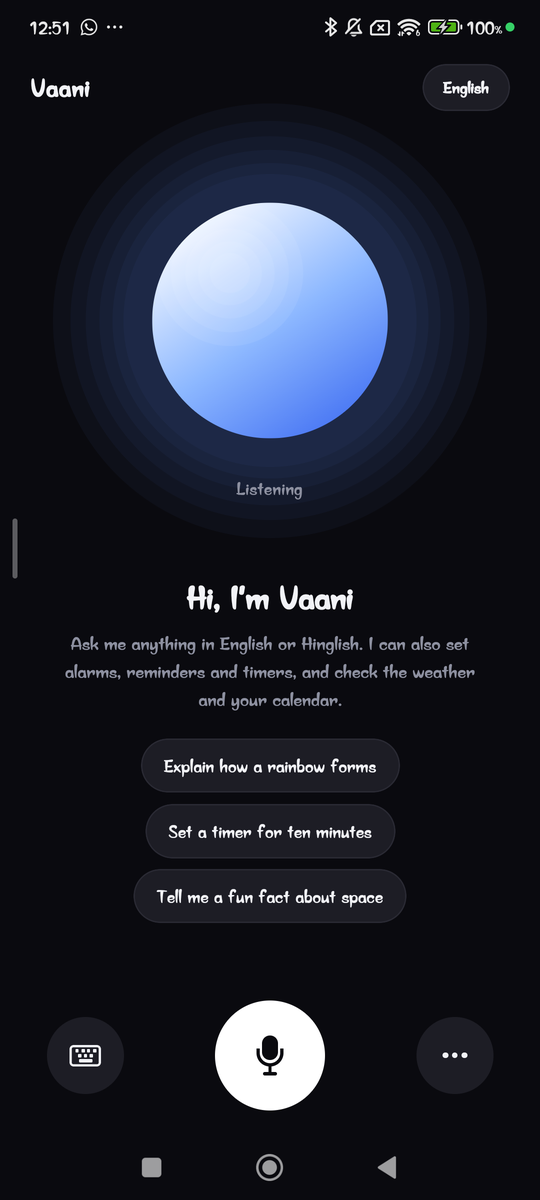
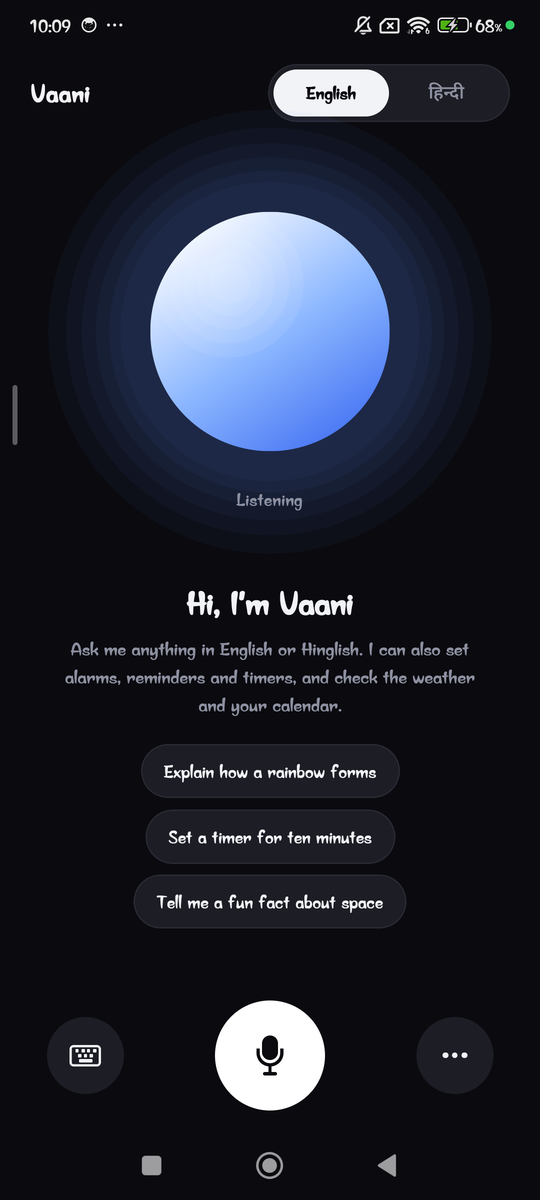
docs and screenshots for the two-voice design, language rule and voice comparison

diff --git a/README.md b/README.md
@@ -17,8 +17,8 @@ Vaani is a voice-mode chat assistant, in the spirit of ChatGPT's voice screen. T
 
 ## What it does
 
-- **Talks both ways, on the phone.** Silero VAD finds the end of your sentence, Whisper-small (int8) transcribes it, and a Piper voice speaks the reply. No audio leaves the device.
-- **English and Hinglish.** One toggle switches what it listens for and what it answers in. Hindi comes out in Devanagari.
+- **Talks both ways, on the phone.** Silero VAD finds the end of your sentence, Whisper-small (int8) transcribes it and works out whether it was English or Hindi, and a Piper voice speaks the reply: Amy for English, Pratham for Hindi. No audio leaves the device.
+- **English and Hinglish, switchable mid-conversation.** A sliding toggle sets the language. It also follows you: say something in the other language and it switches by itself, voice included. Both voices stay loaded, so nothing reloads.
 - **Acts, not just chats.** Alarm, timer and reminder, calendar read, weather (Open-Meteo), exact maths, and Wikipedia lookups for facts it might not know.
 - **Asks when it has to.** "Alarm laga do" gets a "kitne baje?" instead of a guess, and follow-ups like "aur kal?" work.
 - **Never claims what it didn't do.** If a tool fails, it says so. If the model returns nothing, it asks you to repeat, instead of saying "done".
@@ -34,7 +34,7 @@ Vaani is a voice-mode chat assistant, in the spirit of ChatGPT's voice screen. T
 | :-----------------------------------------------------: | :---------------------------------------------------: | :------------------------------------------------------: |
 | <img src="docs/screenshots/04-typing.png" width="230"/> | <img src="docs/screenshots/05-menu.png" width="230"/> | <img src="docs/screenshots/06-latency.png" width="230"/> |
 
-The orb shows what Vaani is doing: blue while listening, violet while thinking, cyan while speaking, grey when the mic is muted. Screenshots are from a Redmi Note 12 Pro 5G.
+The orb shows what Vaani is doing: blue while listening, violet while thinking, cyan while speaking, grey when the mic is muted. The English / हिन्दी switch at the top changes the language and voice for the next reply, and it moves by itself when you switch language in a sentence. Screenshots are from a Redmi Note 12 Pro 5G.
 
 ## How it works
 
@@ -48,7 +48,7 @@ The orb shows what Vaani is doing: blue while listening, violet while thinking, 
                       └───────────────┬──────────────────────────────────────────┘
                                       │ tokens, as they arrive
                                       ▼
-                  sentence chunker ─▶ text cleanup ─▶ Piper (on device) ─▶ speaker
+                  sentence chunker ─▶ voice router ─▶ Amy (English) / Pratham (Hindi) ─▶ speaker
 ```
 
 - **Sentence by sentence.** The first sentence is spoken while the model is still writing the second, and the next one is already being synthesized while the current one plays.
@@ -62,14 +62,14 @@ More detail in [`docs/ARCHITECTURE.md`](docs/ARCHITECTURE.md), and the reasoning
 
 All measured on a Redmi Note 12 Pro 5G (Android 14, 5.5 GB RAM) unless stated.
 
-| Thing                                              | Result                                                                                             |
-| -------------------------------------------------- | -------------------------------------------------------------------------------------------------- |
-| Tool-calling eval, `gpt-oss-120b` on Groq (laptop) | 100% tool choice, 100% arguments, 100% clarification on 27 cases. First token about 0.7 s.         |
-| Same eval, noisy transcripts added (35 cases)      | 100% / 97% / 100%                                                                                  |
-| General-assistant cases, `gpt-oss-20b`             | 96% tool choice, 100% plain-speech and length checks, first token about 0.5 s                      |
-| Voice speed: Piper                                 | synthesizes at about 0.2x real time, around 1% silence between sentences in a long reply           |
-| Voice speed: Kokoro                                | about 1.5x real time, around 40% silence in a long reply, so it is an opt-in "Natural" voice       |
-| First audio, a weather question                    | about 3.8 s on one phone hotspot run (LLM 0.5 s, tool 2.7 s, voice 1 s). One sample, not a median. |
+| Thing                                              | Result                                                                                                                    |
+| -------------------------------------------------- | ------------------------------------------------------------------------------------------------------------------------- |
+| Tool-calling eval, `gpt-oss-120b` on Groq (laptop) | 100% tool choice, 100% arguments, 100% clarification on 27 cases. First token about 0.7 s.                                |
+| Same eval, noisy transcripts added (35 cases)      | 100% / 97% / 100%                                                                                                         |
+| General-assistant cases, `gpt-oss-20b`             | 96% tool choice, 100% plain-speech and length checks, first token about 0.5 s                                             |
+| Voice speed (Piper, both voices)                   | synthesizes at about 0.2x real time, around 1% silence between sentences in a long reply                                  |
+| Replies in the language you spoke                  | 100% of 28 turns with the per-message language rule, against 61% with a plain "answer in the user's language" instruction |
+| First audio, a weather question                    | about 3.8 s on one phone hotspot run (LLM 0.5 s, tool 2.7 s, voice 1 s). One sample, not a median.                        |
 
 Full tables and the failures are in [`eval/results.md`](eval/results.md).
 
@@ -95,7 +95,6 @@ For latency numbers and demos use a release build: `npm run android:release`.
 | `EXPO_PUBLIC_GROQ_API_KEY`   | free key from <https://console.groq.com/keys> (default provider) |
 | `EXPO_PUBLIC_NVIDIA_API_KEY` | key from <https://build.nvidia.com>, an alternative provider     |
 | `EXPO_PUBLIC_LLM_PROVIDER`   | `groq` or `nvidia`                                               |
-| `EXPO_PUBLIC_TTS_ENGINE`     | `piper` (default, fast) or `kokoro` (richer, slower)             |
 
 The Groq free tier is about 200,000 tokens a day on the main model, roughly 150 to 190 requests. Vaani skips a rate-limited model for its cooldown, falls back to the smaller one, and says so out loud if both are used up. See [`docs/DECISIONS.md`](docs/DECISIONS.md) (D19).
 
@@ -115,7 +114,7 @@ The Groq free tier is about 200,000 tokens a day on the main model, roughly 150 
 App.tsx           entry: first-run download, then the voice screen
 src/agent/        turn loop, memory, tool runner, safe calculator
 src/llm/          streaming client, fallback and cooldowns, prompt, tool schemas
-src/tts/          sentence chunker, number and time speech, Hindi and loanword respelling
+src/tts/          sentence chunker, number and time speech, Devanagari rewrite for the Hindi voice
 src/pipeline/     voice agent state machine, speech queue, echo and noise filters, metrics
 src/speech/       nitro-voice adapters, model packs, verified downloader
 src/tools/        alarm, timer, reminder, calendar, weather, Wikipedia
@@ -130,7 +129,8 @@ The core (`agent`, `llm`, `tts`, `pipeline`) has no React Native imports and tak
 
 ## Known limits
 
-- **Hindi voice.** The Piper Hindi voice cannot read Latin letters, so English words in Hinglish go through a dictionary and a rough transliterator, and some will sound off.
+- **English inside Hindi sentences.** The Hindi voice can't read Latin letters, so English words in a Hinglish reply are first rewritten in Devanagari by a small model. If that call fails, a rough rule-based spelling takes over, and some words will sound off.
+- **Free weather API.** Open-Meteo sometimes answers HTTP 503. Vaani retries once and then says it couldn't get the forecast.
 - **Always-on mic.** In a noisy room it will transcribe and answer other people. Use the mute button, or a quiet room.
 - **Latency.** Whisper takes about 2 s per utterance on this phone, and a tool turn adds a network call. First audio is a few seconds, not instant.
 - **Not tested on other phones.** Everything above is one Redmi Note 12 Pro 5G.

diff --git a/docs/DECISIONS.md b/docs/DECISIONS.md
@@ -51,10 +51,20 @@ Changed or rejected, with reasons:
 
 **D19 — Free-tier budget is a design constraint.** Groq free limits measured from response headers and 429 messages: `gpt-oss-120b` 8,000 tokens/minute, **200,000 tokens/day**, 1,000 requests/day. One Vaani request is ~460 tokens (prompt) to ~810 (with all seven tools) plus the answer, so roughly 150-190 requests per day on the primary. A day of evals exhausted it. Mitigations: a model that returns 429 is skipped until its cooldown (parsed from "try again in ..."), the backup `gpt-oss-20b` has its own budget, and when every model is limited the user hears a plain spoken message. Do not run large evals on the primary the same day as a demo.
 
-**D20 — Default voice is Piper (fast); Kokoro is the optional "Natural" voice.** Measured on a Redmi Note 12 Pro 5G with the per-sentence log (`adb logcat -s NitroTTS`): Kokoro-82M int8 synthesizes at a real-time factor of 1.5 (4 threads: 1.75, so more threads did not help), which leaves about 40 % of a long reply as silence even with two sentences synthesizing ahead. Piper VITS medium: real-time factor 0.20-0.22 and 0-1 % silence, for both the English (`en_US-amy-medium`) and Hindi (`hi_IN-pratham-medium`) voices. The voice follows the session language and is switchable in the menu (Fast/Natural). Whether Piper _sounds_ acceptable is a listening judgement not yet made by the author of this note.
+**D20 — Piper is the voice engine; Kokoro was dropped (superseded by D23 for which voices).** Measured on a Redmi Note 12 Pro 5G with the per-sentence log (`adb logcat -s NitroTTS`): Kokoro-82M int8 synthesizes at a real-time factor of 1.5 (4 threads: 1.75, so more threads did not help), which leaves about 40 % of a long reply as silence even with two sentences synthesizing ahead. Piper VITS medium: real-time factor 0.20-0.22 and 0-1 % silence, for both the English (`en_US-amy-medium`) and Hindi (`hi_IN-pratham-medium`) voices. The voice follows the session language and is switchable in the menu (Fast/Natural). Whether Piper _sounds_ acceptable is a listening judgement not yet made by the author of this note.
 
 **D21 — The Hindi-only voice never receives Latin text.** Piper's Hindi voice cannot read Latin letters, and the LLM sometimes answers Hinglish in Roman script even when told not to (the smaller model mirrors the user's script). For that voice the text is converted in three steps: the Hindi-word dictionary (`hinglishDict.ts`), English loanwords respelled in Devanagari (`loanwords.ts`, includes AM/PM as letters), then a phonetic rule-based transliterator for anything left (`translit.ts`). The transliterator is an approximation (single vowels are read short, so "kahani" becomes कहनि) and exists to avoid letter-by-letter reading, not to be correct.
 
 **D22 — nitro-voice patches** (`patches/`, applied by `patch-package`): Kokoro `lang`/lexicon (without it sherpa aborts the process), ordered overlapping `speak()` calls (ticketed playback, serialized synthesis), per-segment STT decode time and per-sentence TTS timing logs. TTS threads stay at 2, STT at 2: the only measured thread experiment (TTS 4 threads) was slower.
 
 **Build gotcha:** changes to `.env` (for example `EXPO_PUBLIC_TTS_ENGINE`) are not Gradle inputs and Metro caches transformed files. To make a release build see a changed `.env`: delete `android/app/build/generated/assets/react` and the Metro caches in `$TMPDIR` (`metro-*`) before `assembleRelease`.
+
+**D23 — Two Piper voices and a toggle that follows you (2026-10-18).** Amy (`en_US-amy-medium`) speaks English and Pratham (`hi_IN-pratham-medium`) speaks Hindi; both stay loaded so switching costs nothing. Whisper is created with an empty language, so it detects English or Hindi per utterance (8 of 8 test sentences detected correctly, same transcripts as a fixed language). The toggle sets the language; the app also detects it from each message (`src/agent/lang.ts`: Devanagari, or Hindi words from the dictionary; a one or two word reply keeps the conversation's language) and moves the toggle on a clear switch. A sentence containing Devanagari always goes to Pratham, even inside an English reply (a translation). When the voice changes mid-reply the queue waits for the first voice's last second so the two players never overlap.
+
+**D24 — Language is decided by the app, not left to the model.** "Answer in the language of the user's latest message" was followed in only 28 of 46 replies on `gpt-oss-120b` (English questions answered in Hindi and the reverse). The app now detects the language per message and puts an explicit rule in the system prompt: 100% of 28 turns on `gpt-oss-20b` afterwards. The prompt also asks for Hindi words in Devanagari and masculine forms, to match Pratham.
+
+**D25 — The Hindi voice gets Devanagari, written by a small model.** Whisper-scored intelligibility of the Hindi voices reading English: raw Latin text 41% of words wrong, rule-based Devanagari spelling 50%, LLM-written phonetic Devanagari 28%. So each Hinglish sentence with Latin letters is rewritten by the small model (`src/tts/phonetic.ts`, cache, 3 s timeout, 45 s backoff after a failure) in parallel with the main answer, and the rule-based converter stays as the fallback. Having the main model write the screen text and the voice text together (a `§` separator) was tried first and abandoned: 74% of replies had a usable voice part, and tool accuracy dipped.
+
+**D26 — Voice comparison (Whisper as listener, 8 English sentences in phonetic Devanagari).** Kokoro hm_omega 16% wrong, hf_beta 24%, hf_alpha 23%, hm_psi 22%, Piper priyamvada 25%, pratham 30%, rohan 30%. Kokoro is about 7x slower than Piper on the phone, so it stays out. Hindi naturalness could not be scored this way (Whisper-small's own Hindi recognition is weak).
+
+**D27 — The app itself can starve an eval.** The app keeps listening and answers any speech it hears, on the same API key, so a live eval run while the phone app is open collides on the per-minute token limit and shows up as 429s. Close the app (or mute) before running evals.

diff --git a/docs/TASKS.md b/docs/TASKS.md
@@ -60,6 +60,8 @@ Bugs found on the device and fixed (all with tests): the agent **heard its own v
 
 ## Still to do
 
+- Voices are Amy (English) and Pratham (Hindi) with a toggle that follows the language you speak (D23). Listen to both and judge them, especially English words inside Hindi sentences.
+
 Done since this list was first written: phone setup, build and install, on-device speech, the weather/calendar/alarm/reminder tools, and the voice and UI work (see the sections above).
 
 1. **Listen** to the Fast (Piper) and Natural (Kokoro) voices in English and Hinglish and note which sounds better (D20, D21).
